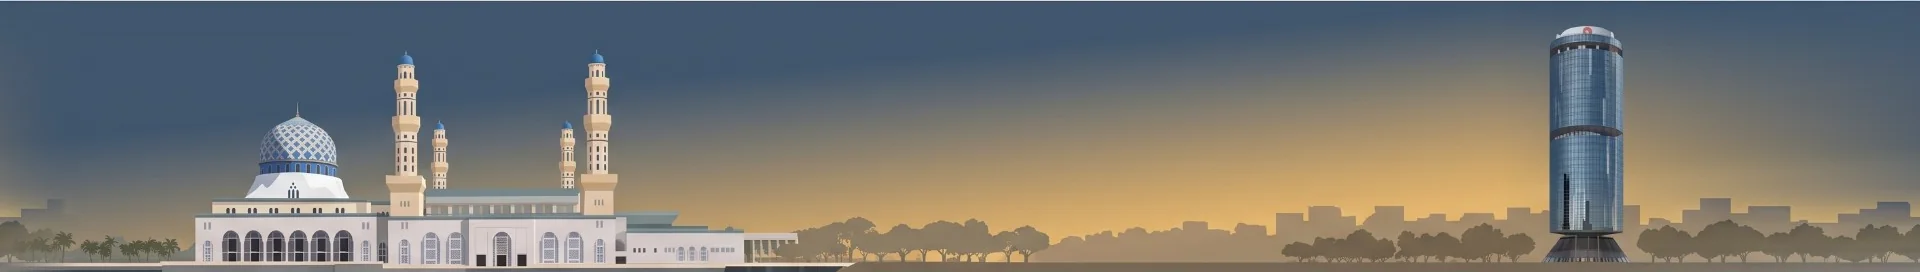
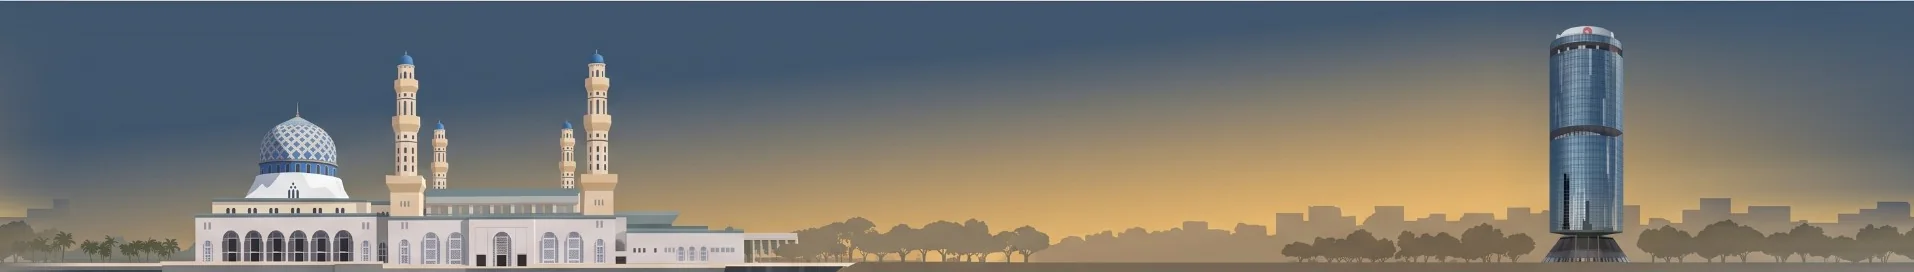
T-Rex Runner: landmark cards show a picture and more verified facts; re-cut panoramas without divider lines
Claude-Session: https://claude.ai/code/session_019E41fob6ZD3VBjtLCqn41o

diff --git a/src/components/trexStages.js b/src/components/trexStages.js
@@ -5,11 +5,11 @@
 // silhouettes below are drawn instead, so the game never shows an empty sky.
 
 export const STAGES = [
-  { name: 'Penampang', info: { title: 'Penampang', lines: ['The siga (sigah) is the traditional Kadazandusun headgear, made from a folded headcloth. The giant Siga monument at the Donggongon roundabout was moved to the side of the roundabout to make way for a flyover, and it still stands there.', 'Datuk Peter Mojuntin, a Sabah state minister, died in the 1976 Double Six air crash. A statue of him stands in Donggongon.'], short: 'The giant Siga monument (Kadazandusun headgear) and the Datuk Peter Mojuntin statue, both in Donggongon.' }, from: 0, sky: ['#33405c', '#c9854f'], hazard: 'lava' },
-  { name: 'Gaya Street', info: { title: 'Gaya Street', lines: ['Gaya Street began as a railway path to the Jesselton wharf and is possibly the oldest street in Kota Kinabalu.', 'The shophouses were rebuilt in concrete after World War II. The Sunday market is called the tamu, from temu, meaning to meet.'], short: 'Possibly KK\'s oldest street, home of the Sunday tamu market.' }, from: 400, sky: ['#3a4a5e', '#b89a6a'], hazard: 'lava' },
-  { name: 'KK City Mosque', info: { title: 'KK City Mosque', lines: ['The KK City Mosque sits on Likas Bay. A man-made lagoon around it earned it the nickname the Floating Mosque.', 'It was officially opened on 18 February 2000. Further along the waterfront stands the Yayasan Sabah tower.'], short: 'The Floating Mosque on Likas Bay, opened in 2000.' }, from: 900, sky: ['#35506b', '#d6a45f'], hazard: 'water' },
-  { name: 'Tanjung Aru', info: { title: 'Tanjung Aru', lines: ['Tanjung Aru Beach faces west, near Kota Kinabalu airport, and is famous for its sunsets.', 'Locals come for the glow over the South China Sea, usually around 6 to 6.30 pm.'], short: 'Famous for its sunsets over the South China Sea.' }, from: 1500, sky: ['#4a2f5a', '#e0663a'], hazard: 'water' },
-  { name: 'Mount Kinabalu', info: { title: 'Mount Kinabalu', lines: ['At about 4,095 metres, Mount Kinabalu is the highest peak in Malaysia.', 'Kinabalu Park became Malaysia\'s first UNESCO World Heritage Site in December 2000.'], short: 'Malaysia\'s highest peak, about 4,095 m.' }, from: 2300, sky: ['#0b1026', '#2a2f55'], hazard: 'lava', final: true }
+  { name: 'Penampang', focus: 40, info: { title: 'Penampang', lines: ['The siga (sigah) is the traditional Kadazandusun headgear, made from a folded headcloth. The giant Siga monument at the Donggongon roundabout was moved to the side of the roundabout to make way for a flyover, and it still stands there.', 'Datuk Peter Mojuntin, a Sabah state minister, died in the 1976 Double Six air crash. A statue of him stands in Donggongon.', 'The 6 June 1976 crash also took the life of Sabah Chief Minister Tun Fuad Stephens.'], short: 'The giant Siga monument (Kadazandusun headgear) and the Datuk Peter Mojuntin statue, both in Donggongon.' }, from: 0, sky: ['#33405c', '#c9854f'], hazard: 'lava' },
+  { name: 'Gaya Street', focus: 50, info: { title: 'Gaya Street', lines: ['Gaya Street began as a railway path to the Jesselton wharf and is possibly the oldest street in Kota Kinabalu.', 'The shophouses were rebuilt in concrete after World War II. The Sunday market is called the tamu, from temu, meaning to meet.', 'Jesselton was renamed Kota Kinabalu in 1967. The Jesselton Hotel on Gaya Street, built in 1954, is the oldest post-war hotel in Sabah.', 'It is often called the Chinatown of Sabah, for its many Chinese coffee shops and restaurants.'], short: 'Possibly KK\'s oldest street, home of the Sunday tamu market.' }, from: 400, sky: ['#3a4a5e', '#b89a6a'], hazard: 'lava' },
+  { name: 'KK City Mosque', focus: 9, info: { title: 'KK City Mosque', lines: ['The KK City Mosque sits on Likas Bay. A man-made lagoon around it earned it the nickname the Floating Mosque.', 'It was officially opened on 18 February 2000. Further along the waterfront stands the Yayasan Sabah tower.', 'It was modelled on the Prophet\'s Mosque in Medina. Visitors are welcome outside prayer times, in modest dress.'], short: 'The Floating Mosque on Likas Bay, opened in 2000.' }, from: 900, sky: ['#35506b', '#d6a45f'], hazard: 'water' },
+  { name: 'Tanjung Aru', focus: 25, info: { title: 'Tanjung Aru', lines: ['Tanjung Aru Beach faces west, near Kota Kinabalu airport, and is famous for its sunsets.', 'Locals come for the glow over the South China Sea, usually around 6 to 6.30 pm.', 'It is one of the best places in Kota Kinabalu to watch the sun go down over the islands.'], short: 'Famous for its sunsets over the South China Sea.' }, from: 1500, sky: ['#4a2f5a', '#e0663a'], hazard: 'water' },
+  { name: 'Mount Kinabalu', focus: 17, info: { title: 'Mount Kinabalu', lines: ['At about 4,095 metres, Mount Kinabalu is the highest peak in Malaysia.', 'Kinabalu Park became Malaysia\'s first UNESCO World Heritage Site in December 2000.', 'A 1997 satellite survey measured the summit at 4,095 m, about 6 m lower than the figure published before.'], short: 'Malaysia\'s highest peak, about 4,095 m.' }, from: 2300, sky: ['#0b1026', '#2a2f55'], hazard: 'lava', final: true }
 ];
 
 const IMAGES = STAGES.map((_, i) => {

diff --git a/src/components/TrexRunnerModal.css b/src/components/TrexRunnerModal.css
@@ -357,7 +357,18 @@
 .runner-info-card-body {
   width: 100%;
   max-width: 360px;
+  max-height: 88vh;
+  overflow-y: auto;
   text-align: center;
+}
+.runner-info-img {
+  display: block;
+  width: 100%;
+  height: 130px;
+  object-fit: cover;
+  border-radius: 12px;
+  border: 1px solid rgba(255, 199, 44, 0.35);
+  margin: 0 0 14px;
 }
 .runner-info-card h2 {
   margin: 0 0 14px;
@@ -368,9 +379,9 @@
   text-transform: uppercase;
 }
 .runner-info-card p {
-  margin: 0 0 14px;
+  margin: 0 0 12px;
   color: #e8e8e8;
-  font-size: 16px;
+  font-size: 15px;
   line-height: 1.55;
 }
 .runner-info-card .runner-btn { margin-top: 8px; }

diff --git a/src/components/TrexRunnerModal.jsx b/src/components/TrexRunnerModal.jsx
@@ -1132,6 +1132,7 @@ export default function TrexRunnerModal({ isOpen, onClose }) {
           {infoOpen && (
             <div className="runner-info-card" role="dialog" aria-label={STAGES[stageIdx].info.title}>
               <div className="runner-info-card-body">
+                <img className="runner-info-img" src={`/images/trex/stage${stageIdx + 1}.webp`} alt="" style={{ objectPosition: `${STAGES[stageIdx].focus}% 50%` }} />
                 <h2>{STAGES[stageIdx].info.title}</h2>
                 {STAGES[stageIdx].info.lines.map((line) => (
                   <p key={line}>{line}</p>
